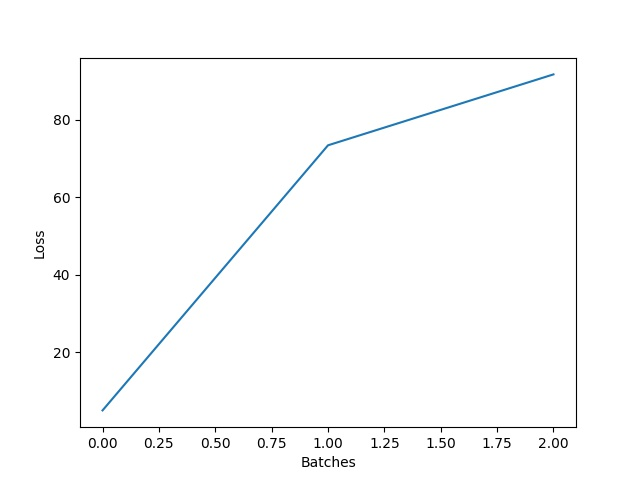
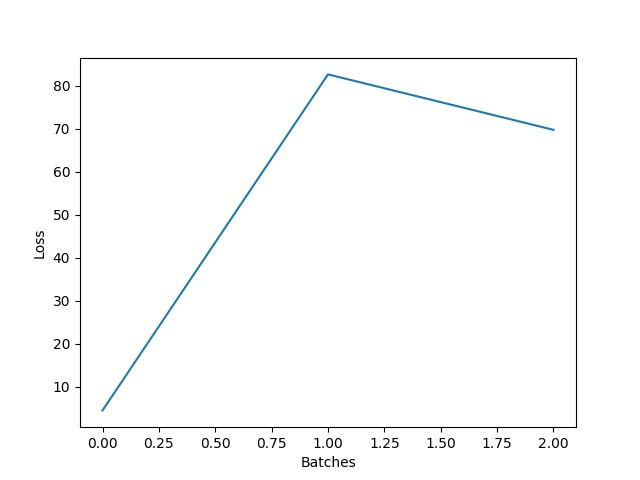
replace pixels with 0 in the normalized image

diff --git a/misc_functions.py b/misc_functions.py
@@ -114,9 +114,12 @@ def remove_salient_pixels(image_batch, saliency_maps, num_pixels=100, most_salie
         if replacement == "black":
             for j in range(channel_size):
                 output[i, j, rows, columns] =  - mean[j] / std[j]
-        else:
+        elif replacement == "mean":
             for j in range(channel_size):
                 output[i, j, rows, columns] =  mean[j]
+        else:
+            for j in range(channel_size):
+                output[i, j, rows, columns] =  0.0
 
     return output
 

diff --git a/remove_and_retrain.py b/remove_and_retrain.py
@@ -104,6 +104,7 @@ def remove_and_retrain(data_loader):
             accuracies[method_idx, k_idx] = accuracy
         plt.figure(0)
         plt.plot(ARGS.k, list(accuracies[method_idx]), label=method_name + str(k))
+    plt.figure(0)
     plt.ylabel('Accuracy')
     plt.xlabel('k %')
     plt.legend()
